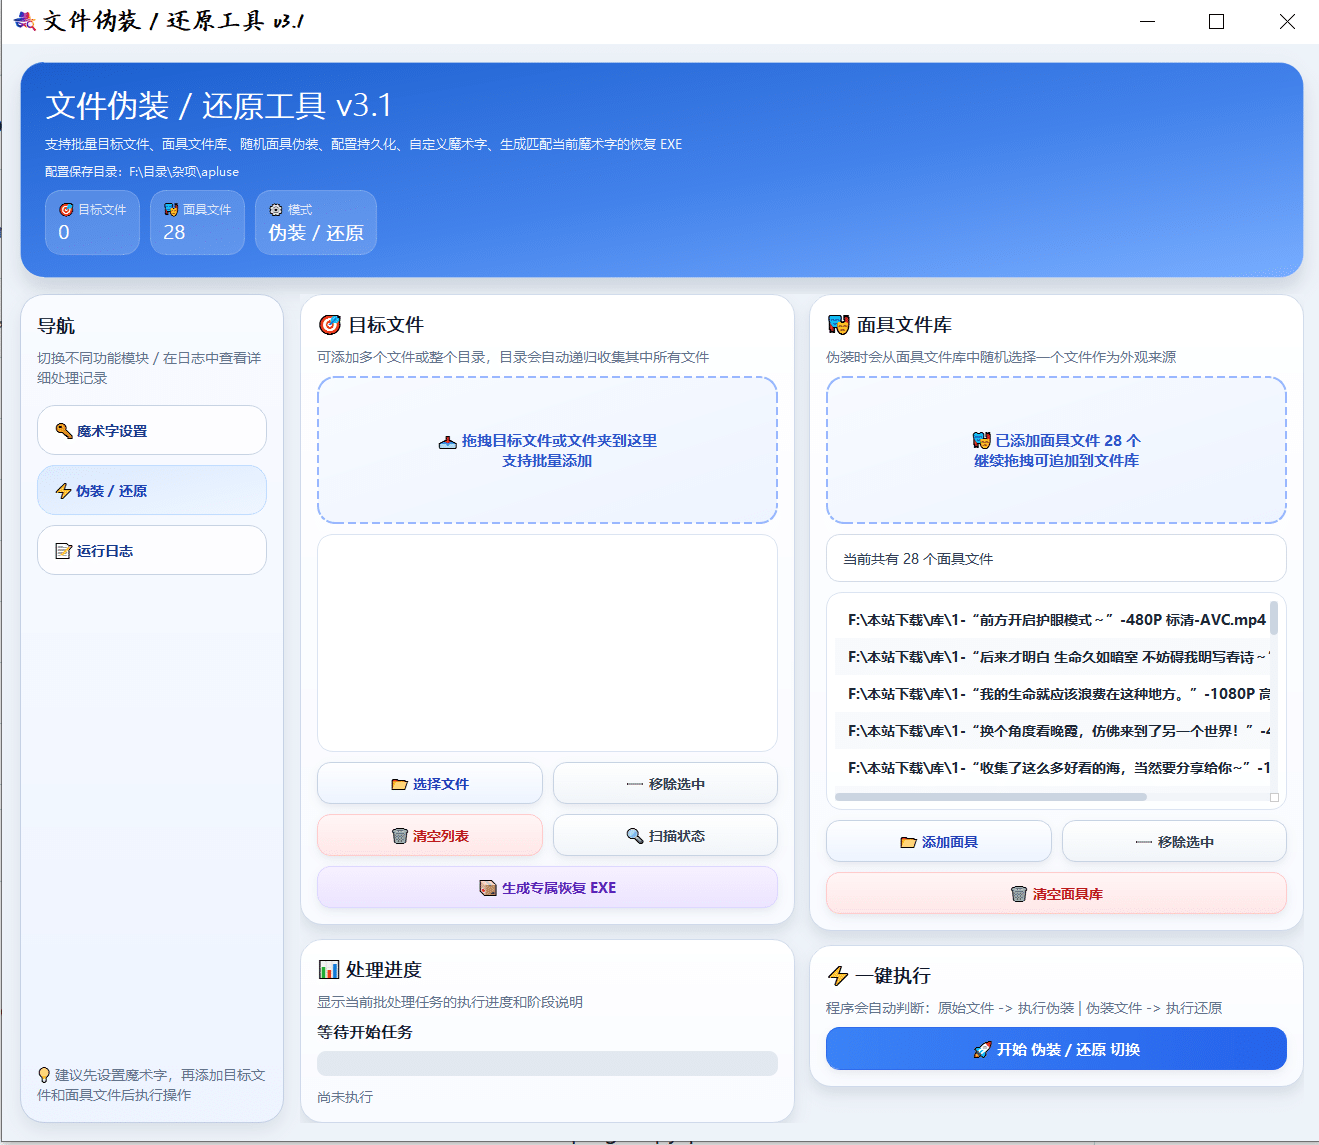
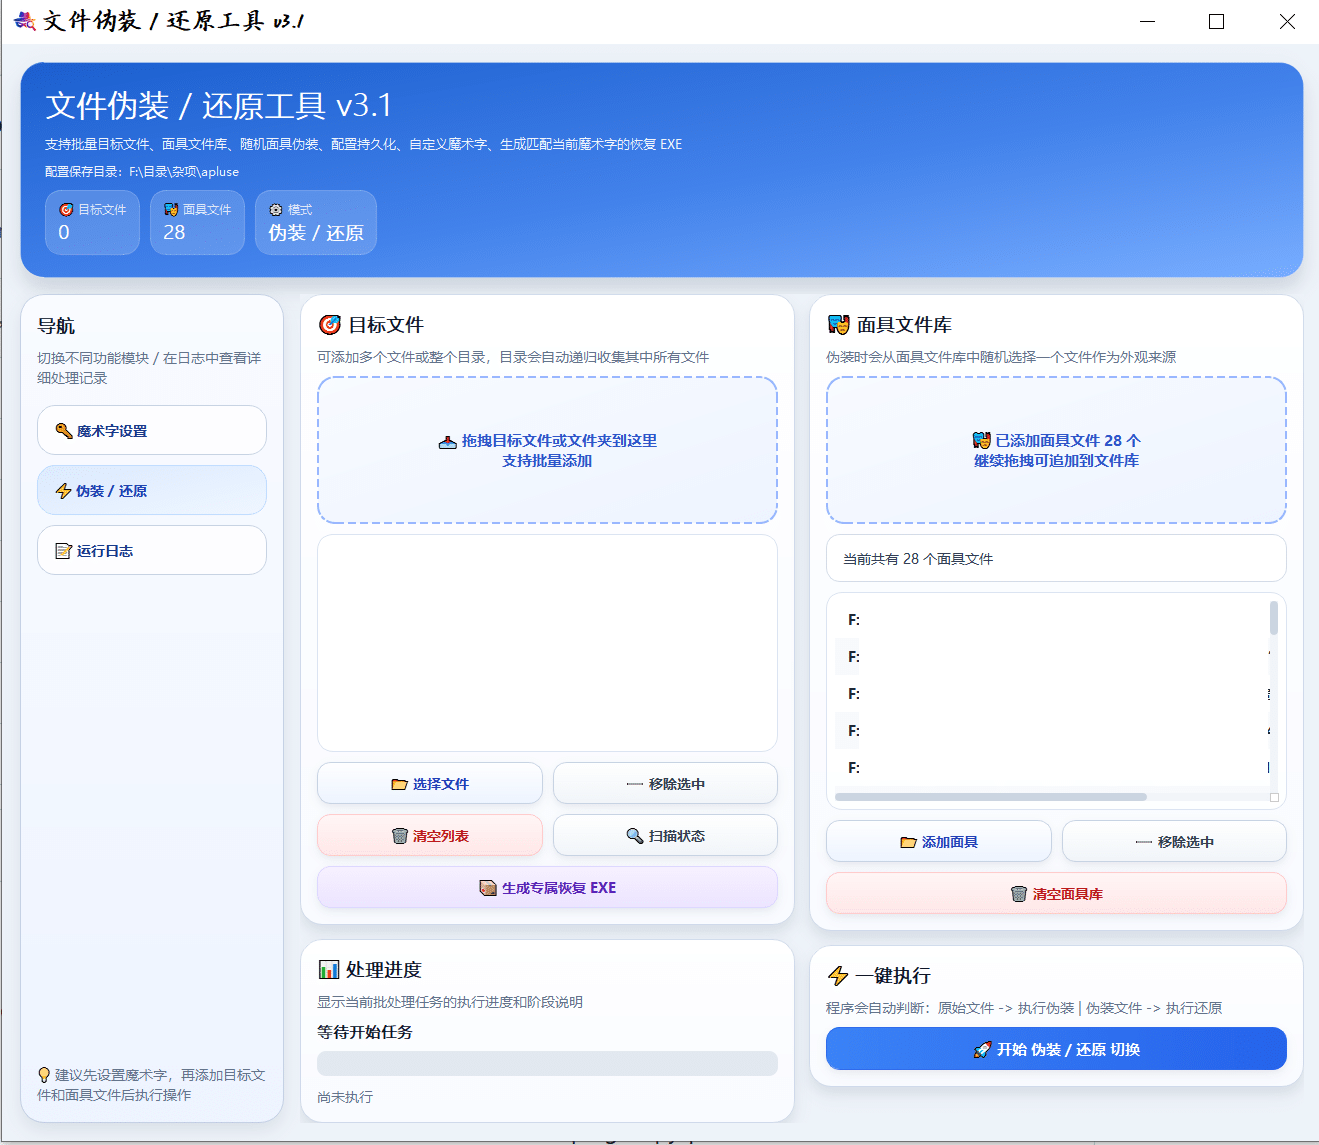
优化文档

Changed region(s): [[0.6528, 0.5197, 0.9636, 0.6725]]

diff --git a/README.md b/README.md
@@ -40,6 +40,14 @@
 
 ![v3.3-2](README.assets/image-20260409010347858.png)
 
+### v3.4
+
+![image-20260507173405311](README.assets/image-20260507173405311.png)
+
+#### 手机恢复：
+
+![Screenshot_20260507_174010](README.assets/mobile.jpg)
+
 ## 使用方式
 
 ### 基本操作
